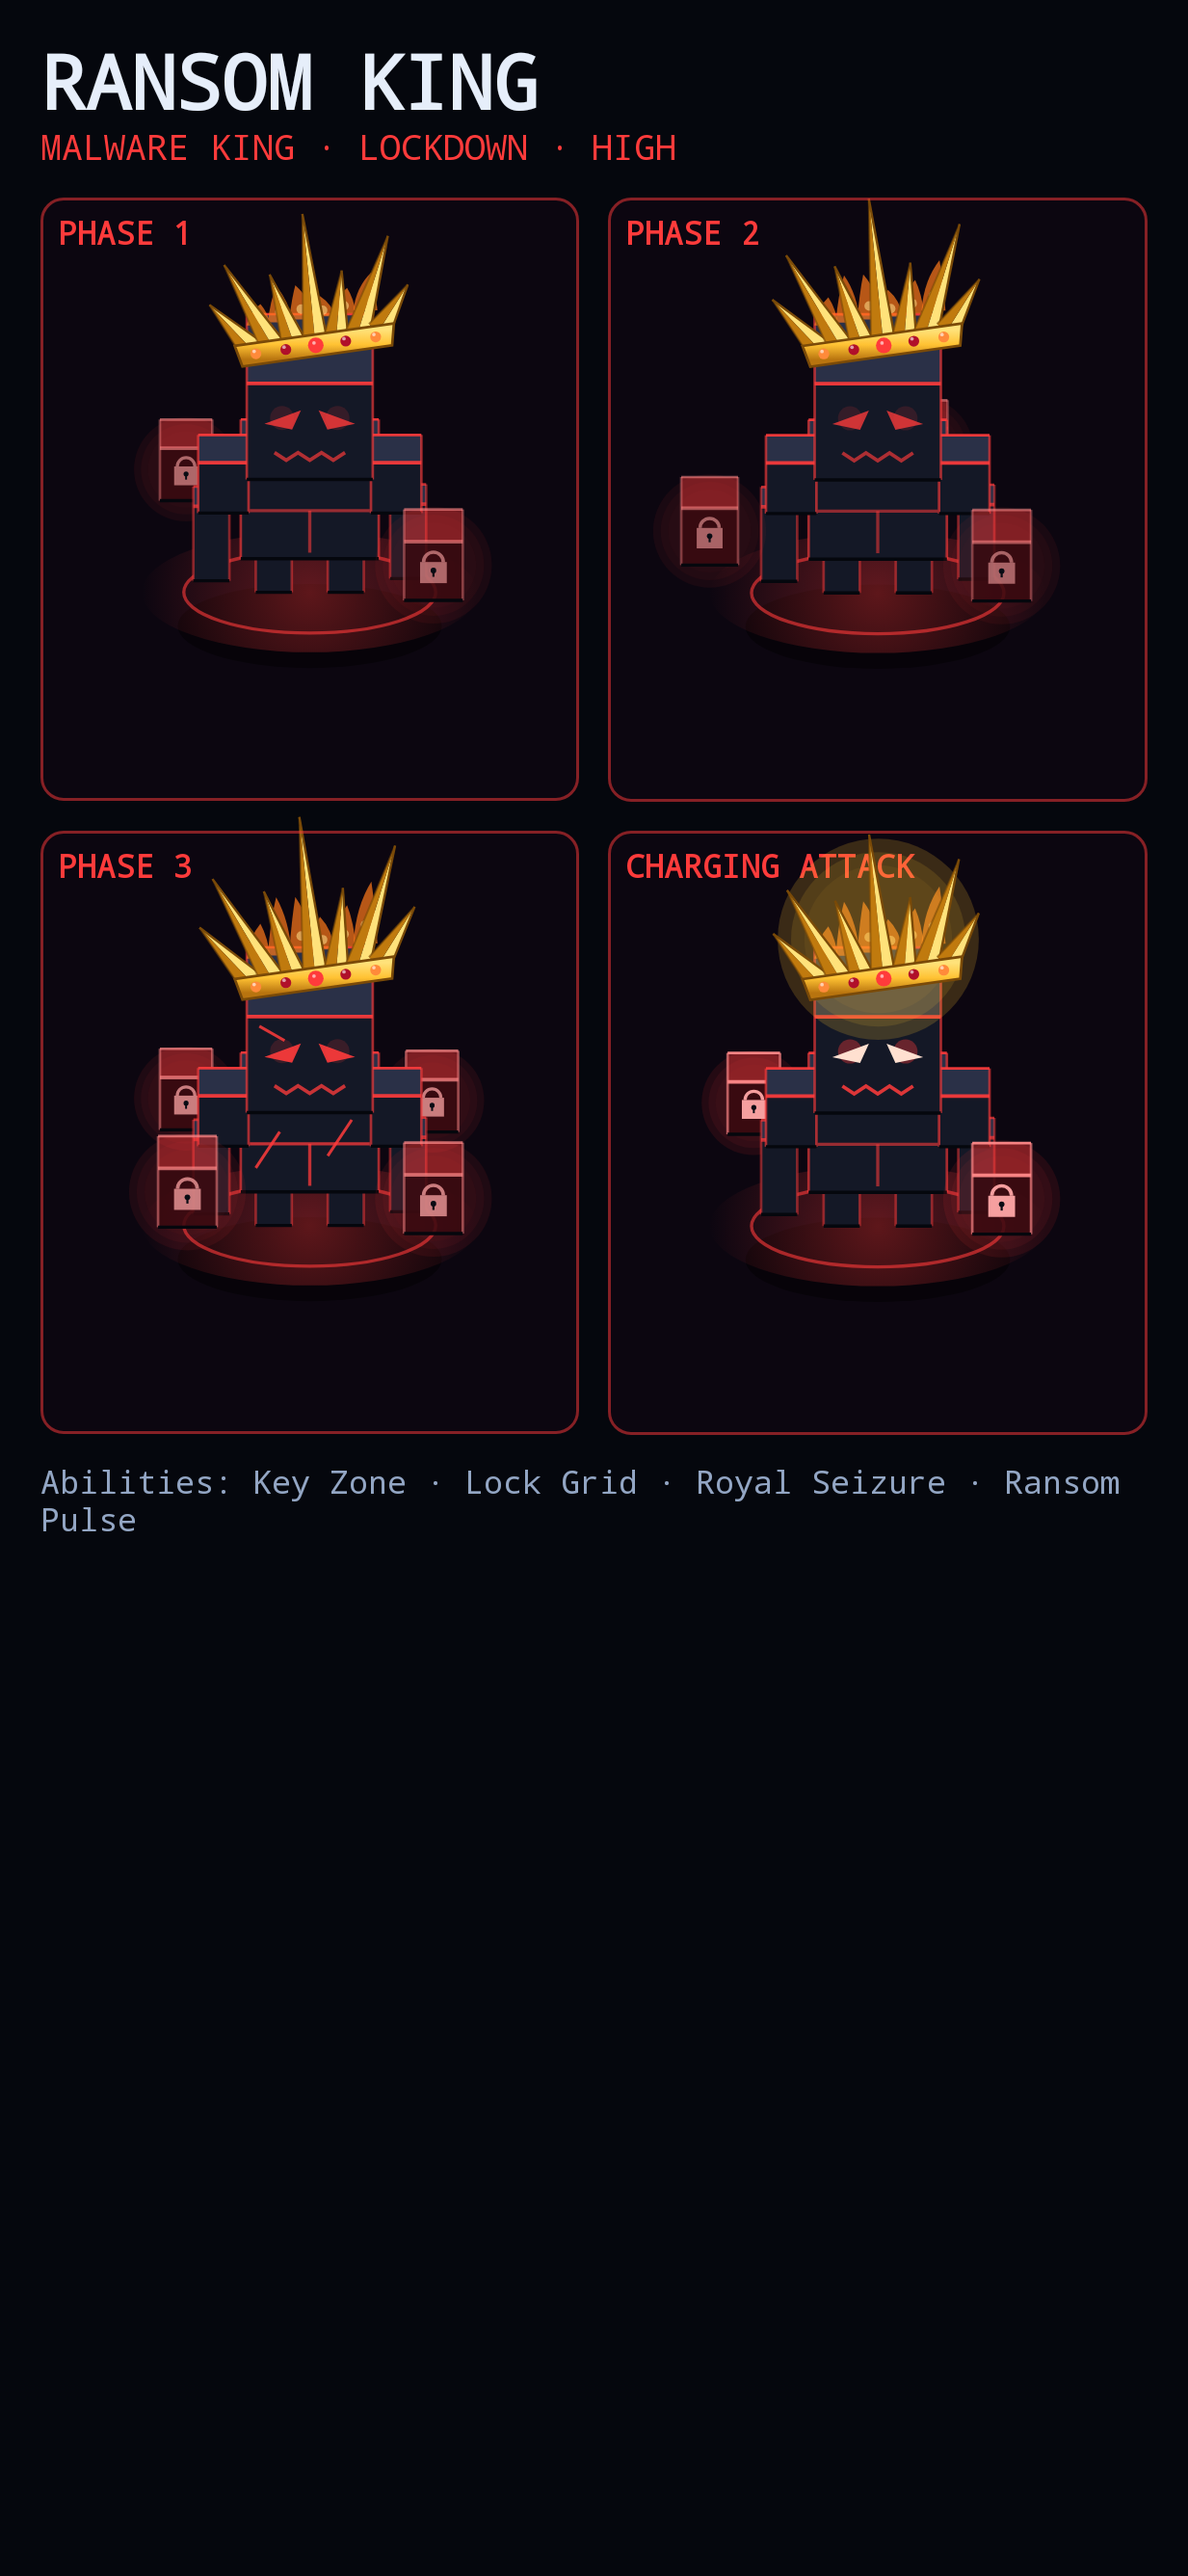
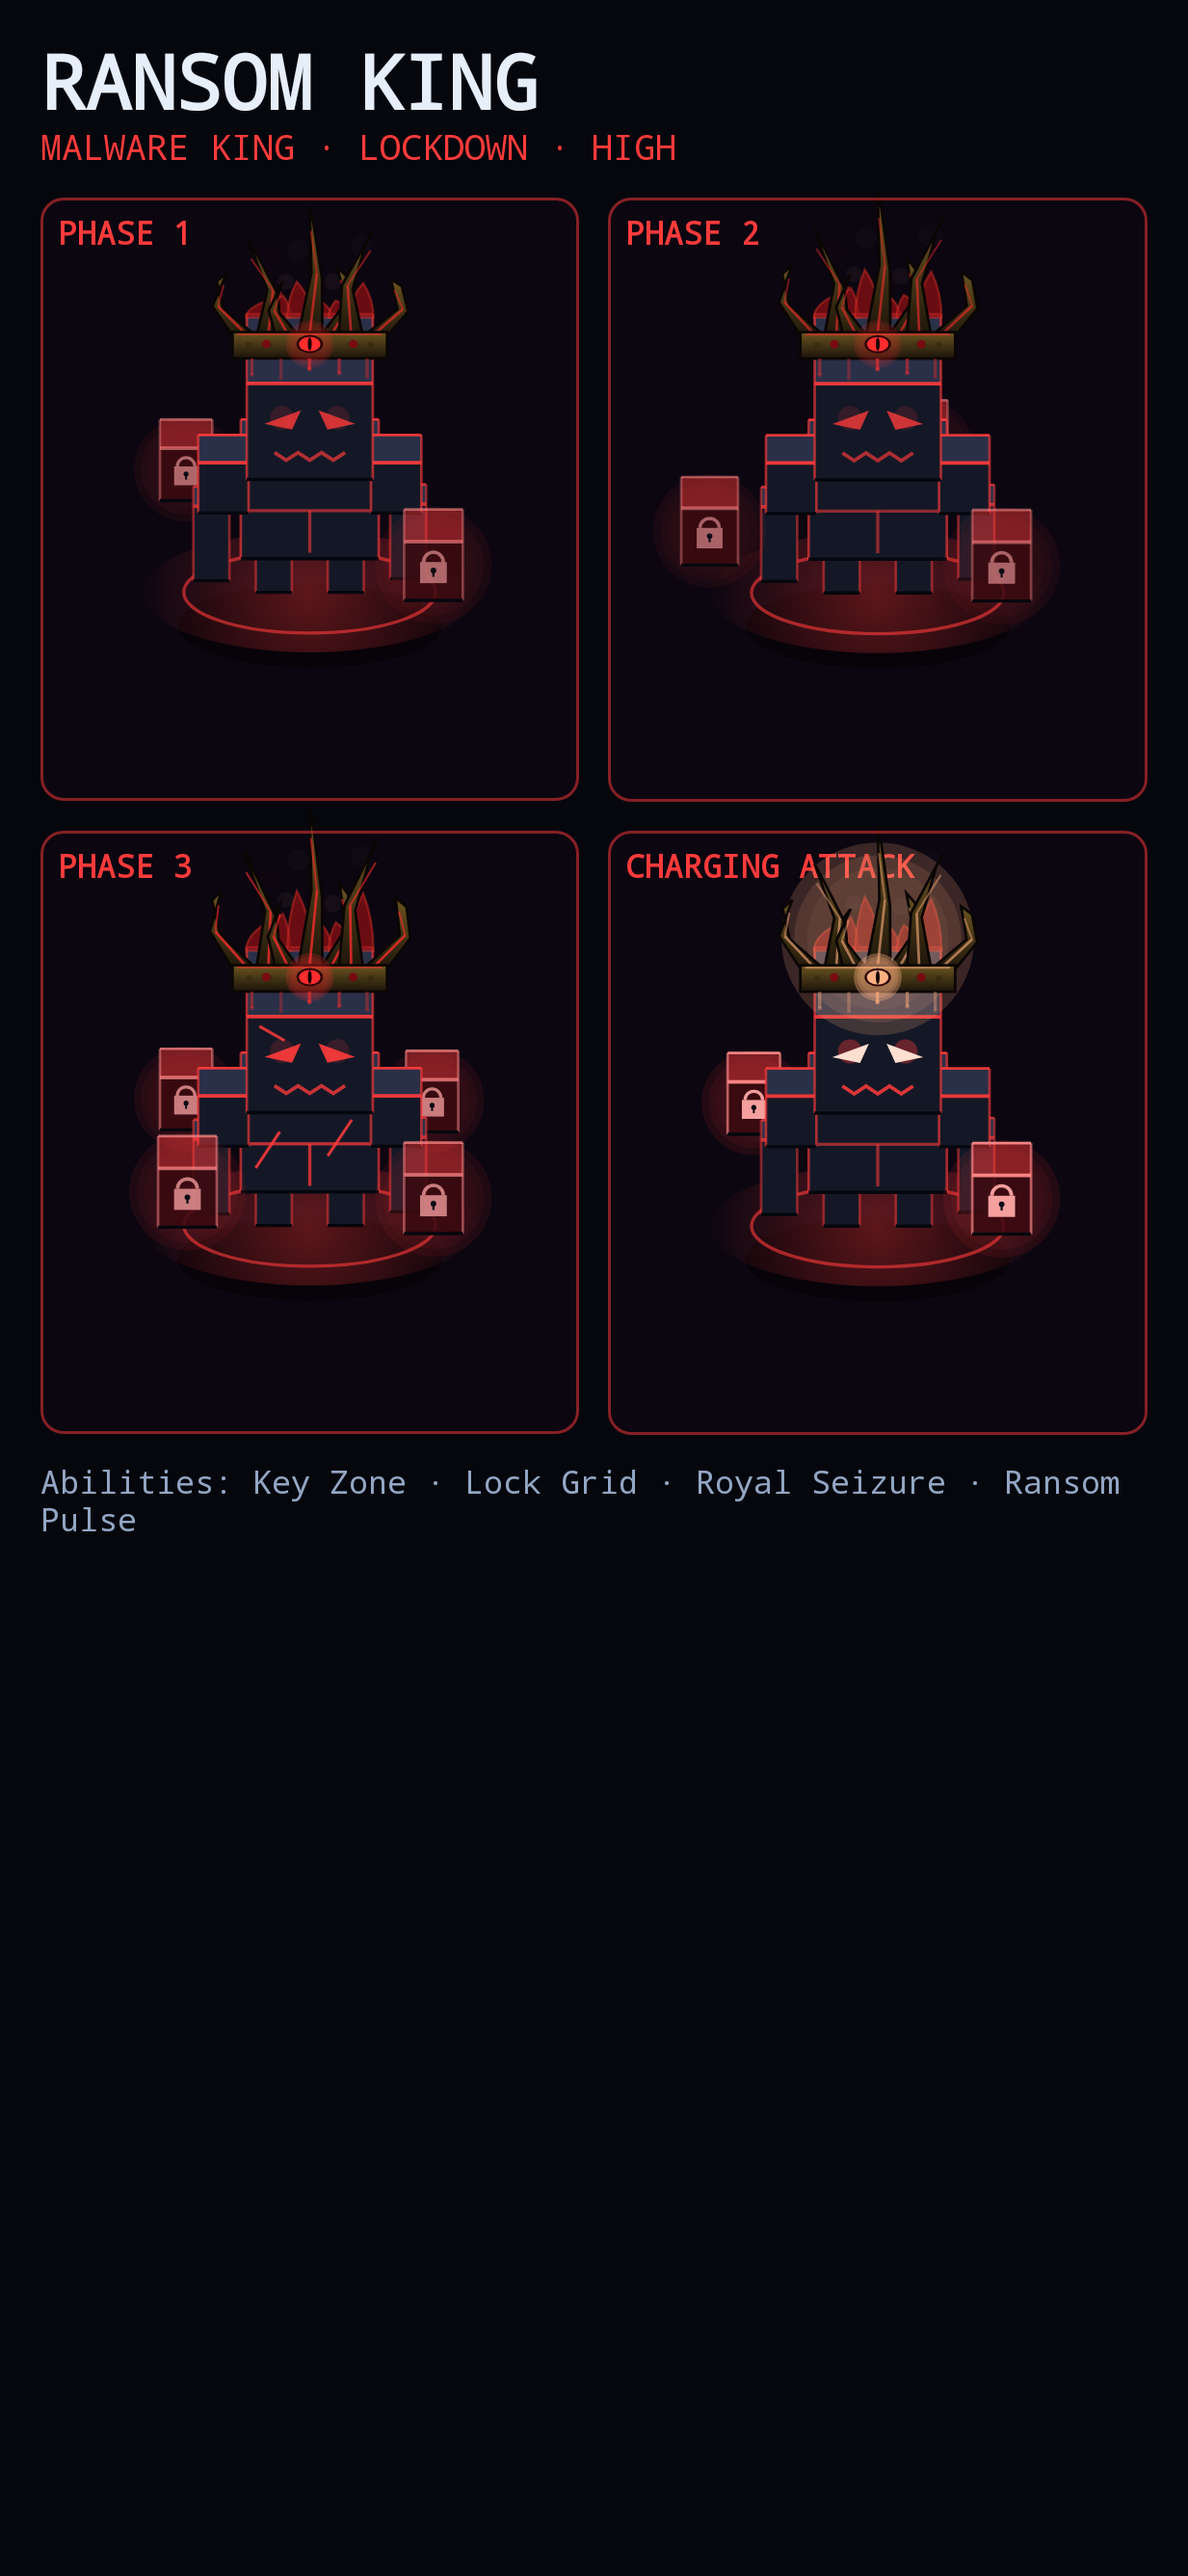
feat: Ransom King revision 3 — level, evil cursed crown (blackened thorns, red-hot cracks, slit-eye gem, crimson fire, drips)
Claude-Session: https://claude.ai/code/session_01J4fYSi9rfQR62SLnfyrDCN

diff --git a/app/src/main/java/com/cyberoperative/game/ui/game/BossBodyRansomKing.kt b/app/src/main/java/com/cyberoperative/game/ui/game/BossBodyRansomKing.kt
@@ -110,54 +110,85 @@ internal object RansomKingBody : BossBody {
             drawLine(c, Offset(p.cx - r * 0.45f, torsoBase - r * 0.2f), Offset(p.cx - r * 0.25f, torsoBase - r * 0.5f), 1.8f)
         }
 
-        // Crown (owner, 2026-10-10: "bigger, sharper, more like jutting out / triangular and
-        // crooked"): a tilted gold band with sharp faceted spikes fanning out at uneven angles,
-        // flames licking up between them.
+        // Cursed crown (owner, 2026-10-10: "not the orientation… it looks like a cursed crown…
+        // try a different design that looks like an evil crown"): level on his head, blackened
+        // iron-gold, bent thorn spikes with red-hot cracks, a slit-pupil eye gem, smoky crimson
+        // fire and glowing drips.
         val crownBase = fy - hw * 0.55f * 0.5f + r * 0.04f
-        val cw = hw * 1.2f
-        val tilt = -0.16f + sin(t * 1.2f) * 0.02f
-        val ox = p.cx + r * 0.06f
-        fun rot(dx: Float, dy: Float) = Offset(ox + dx * cos(tilt) - dy * sin(tilt), crownBase + dx * sin(tilt) + dy * cos(tilt))
+        val cw = hw * 1.15f
+        val cx = p.cx
         val grow = (1f + 0.12f * p.phase) * (if (hot) 1.1f else 1f)
-        val heights = floatArrayOf(0.5f, 0.78f, 0.6f, 1.05f, 0.55f, 0.85f, 0.45f)
-        val lean = floatArrayOf(-0.62f, -0.4f, -0.2f, 0.04f, 0.22f, 0.44f, 0.7f)
-        val goldLit = if (p.hitFlash) Color.White else Color(0xFFFFE27A)
-        val goldShade = if (p.hitFlash) Color(0xFFDDDDDD) else Color(0xFFC07A0E)
-        // Flames behind the spikes.
-        val flameH = r * (0.32f + 0.1f * p.phase) * (if (hot) 1.5f else 1f)
+        val ember = if (hot) Color(0xFFFFB080) else Color(0xFFFF2D2D)
+        val metalTop = if (p.hitFlash) Color.White else Color(0xFF6B5420)
+        val metalLow = if (p.hitFlash) Color(0xFFCCCCCC) else Color(0xFF1C140A)
+        // Smoky crimson fire behind the thorns.
+        val flameH = r * (0.3f + 0.1f * p.phase) * (if (hot) 1.5f else 1f)
         for (k in 0 until 6) {
-            val base = rot(-cw / 2f + cw * (k + 1f) / 7f, -r * 0.3f)
-            val h = flameH * (0.75f + 0.25f * sin(t * 9f + k * 1.7f))
+            val fx = cx - cw / 2f + cw * (k + 1f) / 7f
+            val h = flameH * (0.7f + 0.3f * sin(t * 8f + k * 1.9f))
+            val by = crownBase - r * 0.3f
             val flame = Path().apply {
-                moveTo(base.x - r * 0.1f, base.y)
-                quadraticTo(base.x - r * 0.08f, base.y - h * 0.6f, base.x + sin(t * 7f + k) * r * 0.05f, base.y - h)
-                quadraticTo(base.x + r * 0.08f, base.y - h * 0.6f, base.x + r * 0.1f, base.y)
+                moveTo(fx - r * 0.1f, by)
+                quadraticTo(fx - r * 0.1f, by - h * 0.55f, fx + sin(t * 6f + k) * r * 0.06f, by - h)
+                quadraticTo(fx + r * 0.1f, by - h * 0.55f, fx + r * 0.1f, by)
                 close()
             }
-            drawPath(flame, FLAME.copy(alpha = 0.7f))
-            drawCircle(Color(0xFFFFE08A).copy(alpha = 0.55f), r * 0.04f, Offset(base.x, base.y - h * 0.3f))
+            drawPath(flame, Color(0xFF8A0F14).copy(alpha = 0.75f))
+            drawPath(flame, Color(0xFFFF3B2B).copy(alpha = 0.35f), style = Stroke(1.4f))
+            // Smoke curling off the top.
+            val k2 = (t * 0.7f + k * 0.37f) % 1f
+            drawCircle(Color(0xFF2A2026).copy(alpha = 0.5f * (1f - k2)), r * (0.05f + 0.06f * k2), Offset(fx + sin(t + k) * r * 0.08f, by - h - k2 * r * 0.4f))
         }
-        if (hot) glow(rot(0f, -r * 0.4f), cw * 0.4f, GOLD, 0.9f)
-        // Spikes: sharp two-tone gold triangles jutting out from the band's top edge.
+        if (hot) glow(Offset(cx, crownBase - r * 0.4f), cw * 0.4f, ember, 0.9f)
+        // Thorns: crooked, bent spikes of uneven height; every edge facing out glows like a crack.
+        val heights = floatArrayOf(0.55f, 0.82f, 0.48f, 1.1f, 0.6f, 0.9f, 0.5f)
+        val bend = floatArrayOf(-0.16f, 0.12f, -0.1f, 0.06f, 0.14f, -0.12f, 0.18f)
+        val lean = floatArrayOf(-0.32f, -0.2f, -0.1f, 0f, 0.1f, 0.2f, 0.32f)
         for (k in heights.indices) {
-            val bx = -cw / 2f + cw * (k + 0.5f) / heights.size
-            val b0 = rot(bx, -r * 0.12f)
-            val ang = -1.571f + tilt + lean[k]
-            crystal(b0.x, b0.y, ang, r * heights[k] * grow, r * 0.2f, goldLit, goldShade, Color(0xFF7A4A08))
+            val bx = cx - cw / 2f + cw * (k + 0.5f) / heights.size
+            val by = crownBase - r * 0.12f
+            val h = r * heights[k] * grow
+            val w = r * 0.21f
+            val tipX = bx + lean[k] * h
+            val tipY = by - h
+            // The thorn kinks halfway up, then hooks at the tip.
+            val midX = bx + lean[k] * h * 0.5f + bend[k] * r
+            val midY = by - h * 0.5f
+            val thorn = Path().apply {
+                moveTo(bx - w / 2f, by)
+                lineTo(midX - w * 0.22f, midY)
+                lineTo(tipX, tipY)
+                lineTo(tipX + bend[k] * r * 0.5f, tipY + h * 0.12f)
+                lineTo(midX + w * 0.2f, midY + h * 0.04f)
+                lineTo(bx + w / 2f, by)
+                close()
+            }
+            drawPath(thorn, Brush.verticalGradient(listOf(metalTop, metalLow), startY = tipY, endY = by))
+            drawPath(thorn, Color(0xFF0A0604), style = Stroke(1.6f))
+            // Red-hot crack running up the thorn.
+            drawLine(ember.copy(alpha = 0.55f + 0.35f * pulse), Offset(bx, by - h * 0.05f), Offset(midX, midY), 1.6f)
+            drawLine(ember.copy(alpha = 0.4f + 0.3f * pulse), Offset(midX, midY), Offset(tipX + bend[k] * r * 0.15f, tipY + h * 0.18f), 1.2f)
         }
-        // Band: a skewed gold strip with gems.
-        val band = Path().apply {
-            val a0 = rot(-cw / 2f - r * 0.04f, -r * 0.16f); val a1 = rot(cw / 2f + r * 0.04f, -r * 0.16f)
-            val a2 = rot(cw / 2f, r * 0.02f); val a3 = rot(-cw / 2f, r * 0.02f)
-            moveTo(a0.x, a0.y); lineTo(a1.x, a1.y); lineTo(a2.x, a2.y); lineTo(a3.x, a3.y); close()
+        // Band: blackened metal with rivets and dripping embers.
+        val bandTop = crownBase - r * 0.18f
+        drawRect(Brush.verticalGradient(listOf(metalTop, metalLow), startY = bandTop, endY = crownBase + r * 0.04f), Offset(cx - cw / 2f - r * 0.04f, bandTop), Size(cw + r * 0.08f, r * 0.22f))
+        drawRect(Color(0xFF0A0604), Offset(cx - cw / 2f - r * 0.04f, bandTop), Size(cw + r * 0.08f, r * 0.22f), style = Stroke(1.6f))
+        drawLine(ember.copy(alpha = 0.5f), Offset(cx - cw / 2f, bandTop + r * 0.02f), Offset(cx + cw / 2f, bandTop + r * 0.02f), 1.2f)
+        for (k in listOf(-3, -2, 2, 3)) drawCircle(Color(0xFF3A2C12), r * 0.025f, Offset(cx + k * cw * 0.14f, bandTop + r * 0.11f))
+        for (k in 0 until 5) {
+            val dx = cx - cw * 0.4f + k * cw * 0.2f + sin(k * 3.1f) * r * 0.03f
+            val drip = ((t * 0.5f + k * 0.29f) % 1f)
+            val len = r * (0.06f + 0.12f * drip)
+            drawLine(ember.copy(alpha = 0.7f * (1f - drip * 0.6f)), Offset(dx, crownBase + r * 0.04f), Offset(dx, crownBase + r * 0.04f + len), 2f)
+            drawCircle(ember.copy(alpha = 0.8f * (1f - drip)), r * 0.018f, Offset(dx, crownBase + r * 0.04f + len))
         }
-        drawPath(band, Brush.verticalGradient(listOf(goldLit, GOLD, GOLD_DARK), startY = crownBase - r * 0.2f, endY = crownBase + r * 0.05f))
-        drawPath(band, Color(0xFF7A4A08), style = Stroke(1.6f))
-        for (k in listOf(-2, -1, 0, 1, 2)) {
-            val gc = rot(k * cw * 0.2f, -r * 0.07f)
-            drawCircle(if (k == 0) red else if (k % 2 == 0) Color(0xFFFF8A3A) else Color(0xFFB0102A), r * (if (k == 0) 0.065f else 0.045f), gc)
-            drawCircle(Color.White.copy(alpha = 0.6f), r * 0.015f, Offset(gc.x - r * 0.015f, gc.y - r * 0.02f))
-        }
+        // Slit-pupil eye gem in the middle; side gems like dull blood drops.
+        val gem = Offset(cx, bandTop + r * 0.1f)
+        glow(gem, r * 0.12f, ember, 0.6f + 0.6f * pulse + (if (hot) 1f else 0f))
+        drawOval(Color(0xFF2A0306), Offset(gem.x - r * 0.11f, gem.y - r * 0.075f), Size(r * 0.22f, r * 0.15f))
+        drawOval(ember, Offset(gem.x - r * 0.09f, gem.y - r * 0.06f), Size(r * 0.18f, r * 0.12f))
+        drawOval(Color(0xFF120002), Offset(gem.x - r * 0.016f, gem.y - r * 0.055f), Size(r * 0.032f, r * 0.11f))
+        for (s in listOf(-1f, 1f)) drawCircle(Color(0xFF7A0A12), r * 0.035f, Offset(cx + s * cw * 0.3f, bandTop + r * 0.1f))
 
         for (i in 0 until locks) lockCube(i, front = true)
     }

diff --git a/docs/BOSS_EXPANSION_LOG.md b/docs/BOSS_EXPANSION_LOG.md
@@ -232,7 +232,7 @@ CONTROLLER / AREA CONTROL / HUNTER on these four).
 | Vault Sentinel | 2026-10-10 (`docs/bosses/designs/vault_sentinel_*.png`) | ✅ **FINAL**: body (20% larger) and attacks approved — "Vault sentinel looks great thank you." | "Looks great… can it be slightly larger? … show me its attacks … spawn cubes (barrier blocks out of the floor restricting player movement)" |
 | Rootkit Apostle | 2026-10-10 (`docs/bosses/designs/rootkit_apostle_*`) | ✅ **FINAL**: body (rev 2) and attacks approved — "Approved; start on Nullshade Specter" | "Darker body, eye can glow dim to bright back and forth slowly and is bright when attack" |
 | Nullshade Specter | 2026-10-10 (`docs/bosses/designs/nullshade_*`) | ✅ body approved (rev 2, traced from owner reference) — "those look good". Attacks built ("The level should be extremely dark") — ✅ **FINAL**: "Approved; start on Ransom King" | Rev 1 rejected: "Not a fan of that design… trace as best as possible. There shouldn't be an outline really. Think DARKNESS GHOST"; eyes blink + faint light; "Fainter glow around the eyes… sharper"; "bigger eyes please" |
-| Ransom King | 2026-10-10 (`docs/bosses/designs/ransom_king_*`) | ⏳ revision 2 sent (bigger crooked crown) | "can the crown be bigger, sharper, and more like jutting out / triangular and crooked?" |
+| Ransom King | 2026-10-10 (`docs/bosses/designs/ransom_king_*`) | ⏳ revision 3 sent (evil cursed crown, level) | "can the crown be bigger, sharper… crooked?" → "Not the orientation of the crown… looks like a cursed crown. realign and then try a different design that looks like an evil crown" |
 
 ---
 
@@ -300,3 +300,4 @@ CONTROLLER / AREA CONTROL / HUNTER on these four).
     spiked gold crown with flames, padlocked red cubes orbiting (2/3/4 by phase), cracks in P3.
   - Def: slot 9 (L210), LOCKDOWN, HIGH, base €362; provisional patterns; `designed` only.
 - 2026-10-10 — Ransom King revision 2: the crown is 1.2× head width and tilted, with 7 sharp two-tone gold spikes fanning out at uneven heights and angles, a skewed band with gems and flames behind.
+- 2026-10-10 — Ransom King revision 3: the crown is level again; blackened iron-gold bent thorn spikes with red-hot cracks, a slit-pupil eye gem, smoky crimson fire and ember drips.
